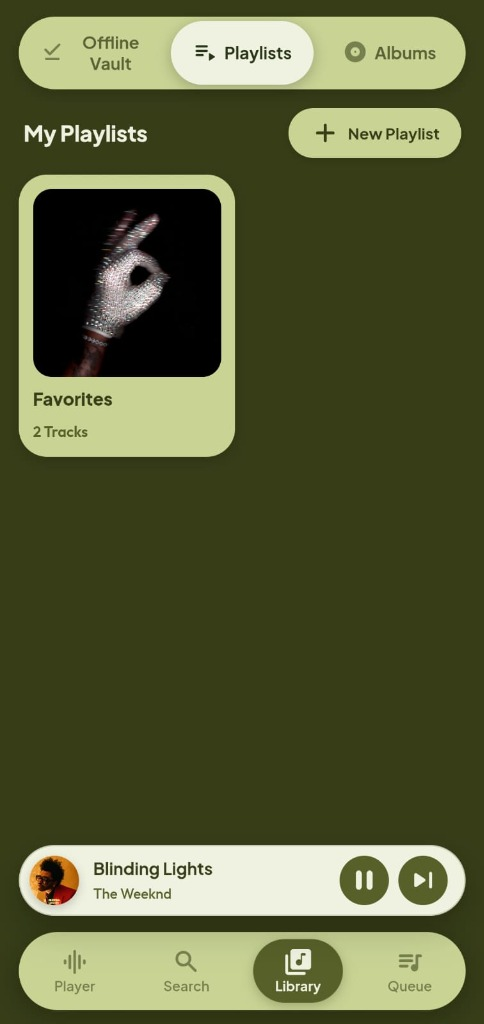
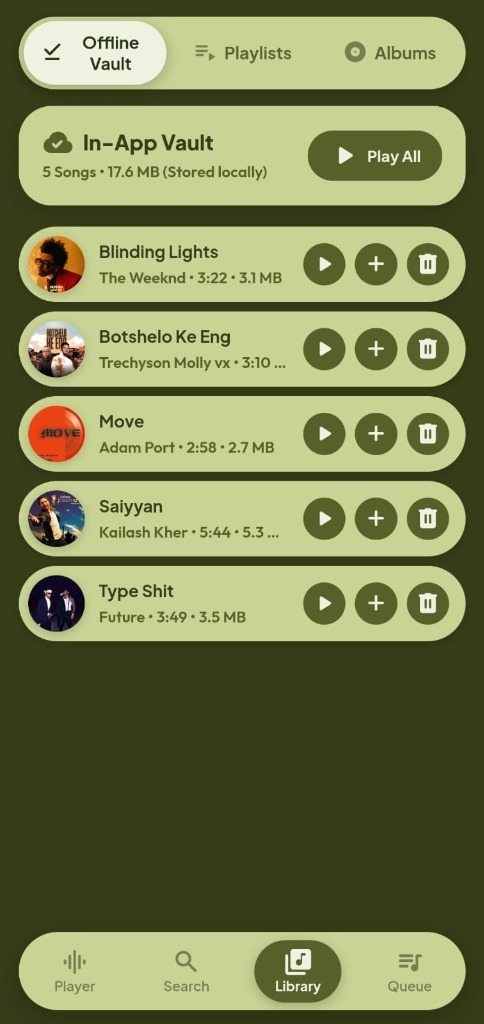
Replace library screenshot with In-App Offline Vault screenshot in README

diff --git a/README.md b/README.md
@@ -53,8 +53,8 @@
       <br /><sub><b>Live Synced Lyrics</b></sub>
     </td>
     <td align="center" width="25%" style="border: none;">
-      <img src="assets/screenshots/screenshot_library.jpg" alt="Offline Library" width="100%" style="border-radius: 20px; box-shadow: 0 4px 16px rgba(0,0,0,0.25);" />
-      <br /><sub><b>Library & Mini Player</b></sub>
+      <img src="assets/screenshots/screenshot_library.jpg" alt="Offline Music Vault" width="100%" style="border-radius: 20px; box-shadow: 0 4px 16px rgba(0,0,0,0.25);" />
+      <br /><sub><b>Offline Music Vault</b></sub>
     </td>
     <td align="center" width="25%" style="border: none;">
       <img src="assets/screenshots/screenshot_queue.jpg" alt="Up Next Queue" width="100%" style="border-radius: 20px; box-shadow: 0 4px 16px rgba(0,0,0,0.25);" />
